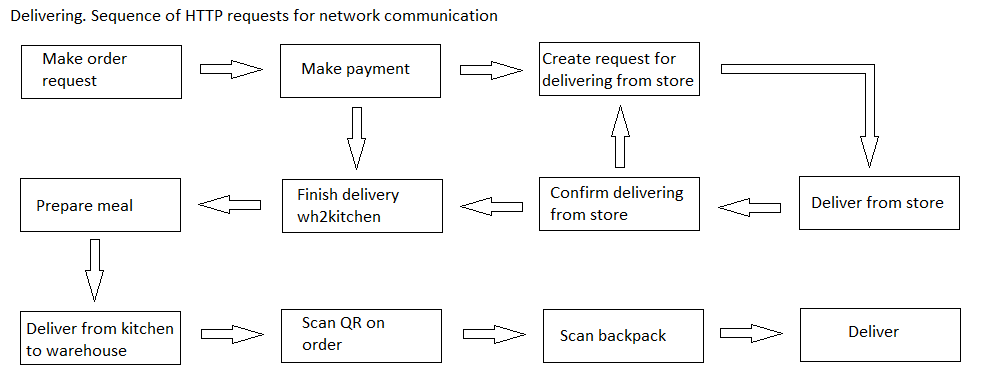
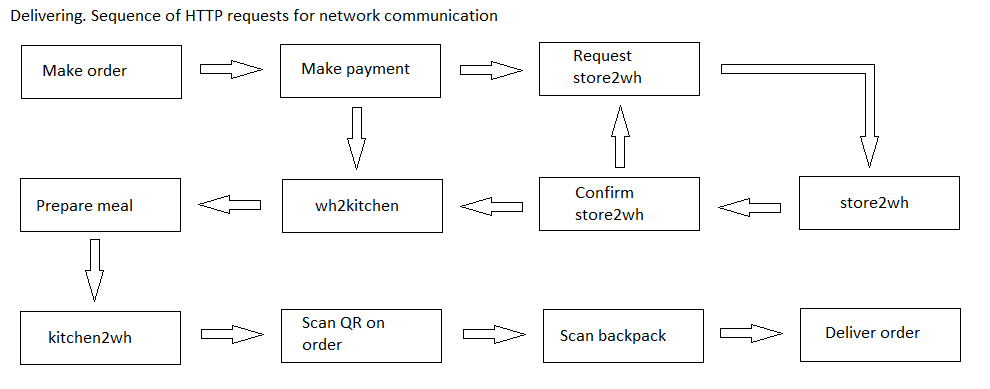
docs: renamed flowchart steps

diff --git a/docs/gettingstarted.ru.md b/docs/gettingstarted.ru.md
@@ -17,13 +17,14 @@
 Для именования API-методов используется имя бизнес-процесса и определённый постфикс, т.е. `ProcessPostfix` (например, `Wh2KitchenSave`, `Wh2KitchenRespond`, `MakeOrderRequest`).
 
 Можно выделить следующие постфиксы для методов, ориентированных на бизнес-процессы:
-- `Request`: любые действия пользователя, которые направлены на запуск процесса (только клиентские приложения);
-- `Respond`: любые действия пользователя, которые направлены на ответ или выполнение некоторого действия в рамках процесса (только клиентские приложения);
-- `Execute`: любые действия пользователя, которые направлены на выполнение некоторого действия в рамках процесса (только клиентские приложения);
-- `Confirm`: любые действия пользователя, которые направлены на подтверждение некоторого действия в рамках процесса (только клиентские приложения);
-- `Start`: любые действия, которые направлены на запуск процесса (только бэкэнд-сервисы);
-- `Get`: запросы, направленные на получение данных из БД, в контексте некоторого процесса;
-- `Save`: запросы, направленные на сохранение данных в БД и последующий редирект на другой сервис/контроллер;
+- `Start`: действия, которые направлены на **запуск** процесса;
+- `Request`: действия пользователя, которые направлены на **запуск** или **запрос** процесса;
+- `Respond`: действия пользователя, которые направлены на **ответ** или **выполнение** некоторого действия в рамках процесса;
+- `Execute`: действия пользователя, которые направлены на **выполнение** некоторого действия в рамках процесса;
+- `Accept`: действия пользователя, которые направлены на **подтверждение** некоторого действия/события в рамках процесса;
+- `Decline`: действия пользователя, которые направлены на **отклонение** некоторого действия/события в рамках процесса;
+- `Get`: запросы, направленные на **получение данных** из БД, в контексте некоторого процесса;
+- `Save`: запросы, направленные на **сохранение данных** в БД и последующий редирект на другой сервис/контроллер;
 - `Redirect`: то же самое, что `Save`.
 
 Теоретически можно столкнуться с потенциальной ситуацией, когда нужно произвести дифференциацию (разделение) двух или трёх задач, предназначенных для одного и того же пользователя или инстанса приложения, в рамках одного процесса. 

diff --git a/docs/gettingstarted.md b/docs/gettingstarted.md
@@ -17,13 +17,14 @@ Accordingly, a client application usually has the following API methods:
 To name API methods, the name of the business process and a certain postfix are used, i.e. `ProcessPostfix` (for example, `Wh2KitchenSave`, `Wh2KitchenRespond`, `MakeOrderRequest`).
 
 The following postfixes can be distinguished for business process-oriented methods:
-- `Request`: any user actions that are aimed at starting a process (client applications only);
-- `Respond`: any user actions that are aimed at responding or performing some action within the process (client applications only);
-- `Execute`: any user actions that are aimed at performing some action within the process (client applications only);
-- `Confirm`: any user actions that are aimed at confirming some action within the process (client applications only);
-- `Start`: any actions that are aimed at starting a process (backend services only);
-- `Get`: requests aimed at obtaining data from the database, in the context of some process;
-- `Save`: requests aimed at saving data in the database and subsequent redirection to another service/controller;
+- `Start`: actions that are aimed at **starting** a process;
+- `Request`: actions that are aimed at **starting** or **requesting** a process;
+- `Respond`: user actions that are aimed at **responding** or **performing** some action within the process;
+- `Execute`: user actions that are aimed at **performing** some action within the process;
+- `Accept`: user actions that are aimed at **accepting** some action/event within the process;
+- `Decline`: user actions that are aimed at **rejecting** some action/event within the process;
+- `Get`: requests aimed at **obtaining data** from the database, in the context of some process;
+- `Save`: requests aimed at **saving data** in the database and subsequent redirection to another service/controller;
 - `Redirect`: same as `Save`.
 
 Theoretically, you could be faced with a potential situation where you need to differentiate (separate) two or three tasks intended for the same user or application instance within the same process.

diff --git a/docs/flowchartsteps/delivering/scanbackpack.ru.md b/docs/flowchartsteps/delivering/scanbackpack.ru.md
@@ -25,7 +25,7 @@
 
 Данный процесс ответственен за регистрацию рюкзака с помощью сканирования QR-кода (для того, чтобы регистрировать начало/конец работы в течение дня и отслеживать местоположение курьера в real time).
 
-![delivering_overall](../../img/flowchartnames/delivering_overall.png)
+![delivering_overall](../../img/processpatterns/delivering_overall.png)
 
 Несмотря на то, что данный процесс относится к макропроцессу [delivering](../../flowchartsteps/delivering/README.ru.md), реализация данного процесса схожа с процессами, входящими в макропроцесс [maintenance](../../processpatterns/maintenance.ru.md), в контексте уведомления пользователя:
 
@@ -45,7 +45,5 @@
 ![courier.scanqronorder](../../img/activitydiagrams/courier.scanqronorder.png)
 
 ### Диаграммы последовательности
-
-![courier.scanqronorder](../../img/sequencediagram/courier.scanqronorder.png)
 
 ![delivering.scanbackpack](../../img/sequencediagram/delivering.scanbackpack.png)

diff --git a/docs/flowchartsteps/delivering/scanqronorder.ru.md b/docs/flowchartsteps/delivering/scanqronorder.ru.md
@@ -25,7 +25,7 @@
 
 Данный процесс ответственен за регистрацию заказа потребителя с использованием QR-кода: (начало/конец работы с заказом).
 
-![delivering_overall](../../img/flowchartnames/delivering_overall.png)
+![delivering_overall](../../img/processpatterns/delivering_overall.png)
 
 Несмотря на то, что данный процесс относится к макропроцессу [delivering](../../flowchartsteps/delivering/README.ru.md), реализация данного процесса схожа с процессами, входящими в макропроцесс [maintenance](../../processpatterns/maintenance.ru.md), в контексте уведомления пользователя:
 
@@ -45,7 +45,5 @@
 ![courier.scanqronorder](../../img/activitydiagrams/courier.scanqronorder.png)
 
 ### Диаграммы последовательности
-
-![courier.scanqronorder](../../img/sequencediagram/courier.scanqronorder.png)
 
 ![delivering.scanqronorder](../../img/sequencediagram/delivering.scanqronorder.png)

diff --git a/docs/flowchartsteps/delivering/scanbackpack.md b/docs/flowchartsteps/delivering/scanbackpack.md
@@ -25,7 +25,7 @@ Platform version: v0.1
 
 This process is responsible for registration of a backpack by scanning a QR code (in order to register the beginning / end of work during the day and track the location of the courier in real time).
 
-![delivering_overall](../../img/flowchartnames/delivering_overall.png)
+![delivering_overall](../../img/processpatterns/delivering_overall.png)
 
 Despite the fact that this process belongs to the macroprocess [delivering](../../flowchartsteps/delivering/README.ru.md), the implementation of this process is similar to the processes included in the macroprocess [maintenance](../../processpatterns/maintenance.ru.md), in the context of user notification:
 
@@ -45,8 +45,6 @@ Despite the fact that this process belongs to the macroprocess [delivering](../.
 ![courier.scanqronorder](../../img/activitydiagrams/courier.scanqronorder.png)
 
 ### Sequence diagrams
-
-![courier.scanqronorder](../../img/sequencediagram/courier.scanqronorder.png)
 
 ![delivering.scanbackpack](../../img/sequencediagram/delivering.scanbackpack.png)
 

diff --git a/docs/flowchartsteps/delivering/scanqronorder.md b/docs/flowchartsteps/delivering/scanqronorder.md
@@ -25,7 +25,7 @@ Platform version: v0.1
 
 This process is responsible for registration of the delivery order using a QR code: start/end of work with the order.
 
-![delivering_overall](../../img/flowchartnames/delivering_overall.png)
+![delivering_overall](../../img/processpatterns/delivering_overall.png)
 
 Despite the fact that this process belongs to the macroprocess [delivering](../../flowchartsteps/delivering/README.ru.md), the implementation of this process is similar to the processes included in the macroprocess [maintenance](../../processpatterns/maintenance.ru.md), in the context of user notification:
 
@@ -45,8 +45,6 @@ Despite the fact that this process belongs to the macroprocess [delivering](../.
 ![courier.scanqronorder](../../img/activitydiagrams/courier.scanqronorder.png)
 
 ### Sequence diagrams
-
-![courier.scanqronorder](../../img/sequencediagram/courier.scanqronorder.png)
 
 ![delivering.scanqronorder](../../img/sequencediagram/delivering.scanqronorder.png)
 

diff --git a/docs/flowchartsteps/delivering/wh2kitchen.ru.md b/docs/flowchartsteps/delivering/wh2kitchen.ru.md
@@ -33,7 +33,7 @@
 
 Интерактивные шаги, описанные в настоящем документе, включают запрос запросов на доставку с кухни, выбор продуктов для доставки, подготовку продуктов к транспортировке и обработку результатов доставки.
 
-![delivering_overall](../../img/flowchartnames/delivering_overall.png)
+![delivering_overall](../../img/processpatterns/delivering_overall.png)
 
 ### Flowchart-диаграммы для сетевого взаимодействия
 
@@ -55,7 +55,5 @@
 ![warehouse.wh2kitchen](../../img/activitydiagrams/warehouse.wh2kitchen.png)
 
 ### Диаграммы последовательности
-
-![warehouse.wh2kitchen](../../img/sequencediagram/warehouse.wh2kitchen.png)
 
 ![delivering.finishdeliverytokitchen](../../img/sequencediagram/delivering.finishdeliverytokitchen.png)

diff --git a/docs/flowchartsteps/delivering/README.ru.md b/docs/flowchartsteps/delivering/README.ru.md
@@ -6,7 +6,7 @@
 
 `delivering` - это паттерн реализации бизнес-процессов, которые связаны с созданием заказа на доставку, а также оплатой и доставкой заказа. 
 
-![delivering_overall](../../img/flowchartnames/delivering_overall.png)
+![delivering_overall](../../img/processpatterns/delivering_overall.png)
 
 Данная диаграмма демонстрирует жизненный цикл продукта или заказа на доставку еды:
 
@@ -16,9 +16,9 @@
 
 - [makeorder](makeorder.ru.md)
 - [makepayment](makepayment.ru.md)
-- [confirmstore2wh](confirmstore2wh.ru.md)
-- [store2wh](store2wh.ru.md)
 - [requeststore2wh](requeststore2wh.ru.md)
+- [store2wh](store2wh.ru.md)
+- [confirmstore2wh](confirmstore2wh.ru.md)
 - [wh2kitchen](wh2kitchen.ru.md)
 - [preparemeal](preparemeal.ru.md)
 - [kitchen2wh](kitchen2wh.ru.md)

diff --git a/docs/flowchartsteps/delivering/wh2kitchen.md b/docs/flowchartsteps/delivering/wh2kitchen.md
@@ -33,7 +33,7 @@ The overall description of the scenario for delivery from the warehouse to the k
 
 The interactive steps within the scenario include receiving delivery requests from the kitchen, selecting products for delivery, preparing products for transport, and updating delivery status.
 
-![delivering_overall](../../img/flowchartnames/delivering_overall.png)
+![delivering_overall](../../img/processpatterns/delivering_overall.png)
 
 ### Flowcharts for network communication
 
@@ -55,8 +55,6 @@ The interactive steps within the scenario include receiving delivery requests fr
 ![warehouse.wh2kitchen](../../img/activitydiagrams/warehouse.wh2kitchen.png)
 
 ### Sequence diagrams
-
-![warehouse.wh2kitchen](../../img/sequencediagram/warehouse.wh2kitchen.png)
 
 ![delivering.finishdeliverytokitchen](../../img/sequencediagram/delivering.finishdeliverytokitchen.png)
 

diff --git a/docs/flowchartsteps/delivering/README.md b/docs/flowchartsteps/delivering/README.md
@@ -6,7 +6,7 @@ Name: **Delivering**.
 
 `delivering` is a pattern for implementing business processes that are associated with creating a delivery order, as well as payment and delivery of the order.
 
-![delivering_overall](../../img/flowchartnames/delivering_overall.png)
+![delivering_overall](../../img/processpatterns/delivering_overall.png)
 
 This diagram shows the life cycle of a product or food delivery order:
 
@@ -16,9 +16,9 @@ This diagram shows the life cycle of a product or food delivery order:
 
 - [makeorder](makeorder.md)
 - [makepayment](makepayment.md)
-- [confirmstore2wh](confirmstore2wh.md)
-- [store2wh](store2wh.md)
 - [requeststore2wh](requeststore2wh.md)
+- [store2wh](store2wh.md)
+- [confirmstore2wh](confirmstore2wh.md)
 - [wh2kitchen](wh2kitchen.md)
 - [preparemeal](preparemeal.md)
 - [kitchen2wh](kitchen2wh.md)

diff --git a/docs/flowchartsteps/delivering/preparemeal.ru.md b/docs/flowchartsteps/delivering/preparemeal.ru.md
@@ -25,7 +25,7 @@
 
 Данный процесс вызывается из процесса [preprocessorder](../delivering/preprocessorder.ru.md).
 
-![delivering_overall](../../img/flowchartnames/delivering_overall.png)
+![delivering_overall](../../img/processpatterns/delivering_overall.png)
 
 ### Flowchart-диаграммы для сетевого взаимодействия
 
@@ -44,8 +44,6 @@
 ![kitchen.preparemeal](../../img/activitydiagrams/kitchen.preparemeal.png)
 
 ### Диаграммы последовательности
-
-![kitchen.preparemeal](../../img/sequencediagram/kitchen.preparemeal.png)
 
 ![delivering.preparemeal](../../img/sequencediagram/delivering.preparemeal.png)
 

diff --git a/docs/flowchartsteps/delivering/preparemeal.md b/docs/flowchartsteps/delivering/preparemeal.md
@@ -25,7 +25,7 @@ Platform version: v0.1
 
 This process is called from the [preprocessorder](../delivering/preprocessorder.md) process.
 
-![delivering_overall](../../img/flowchartnames/delivering_overall.png)
+![delivering_overall](../../img/processpatterns/delivering_overall.png)
 
 ### Flowcharts for network communication
 
@@ -44,8 +44,6 @@ This process is called from the [preprocessorder](../delivering/preprocessorder.
 ![kitchen.preparemeal](../../img/activitydiagrams/kitchen.preparemeal.png)
 
 ### Sequence diagrams
-
-![kitchen.preparemeal](../../img/sequencediagram/kitchen.preparemeal.png)
 
 ![delivering.preparemeal](../../img/sequencediagram/delivering.preparemeal.png)
 
